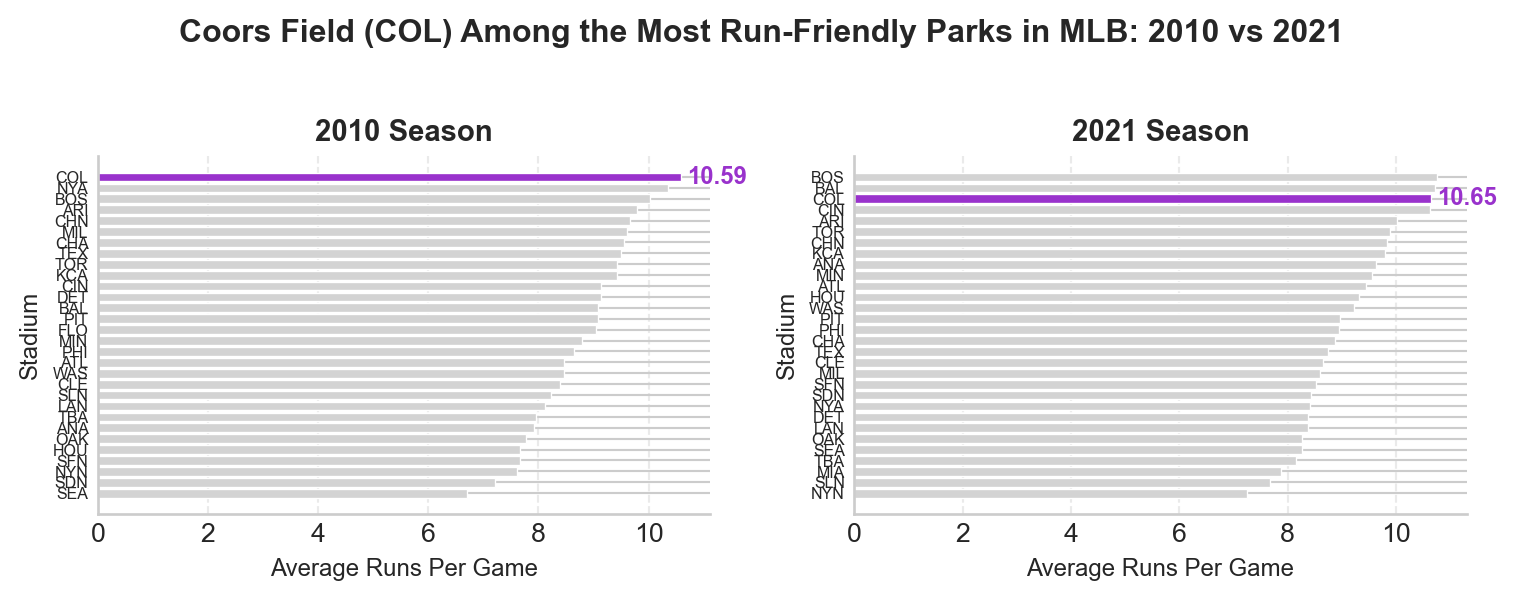
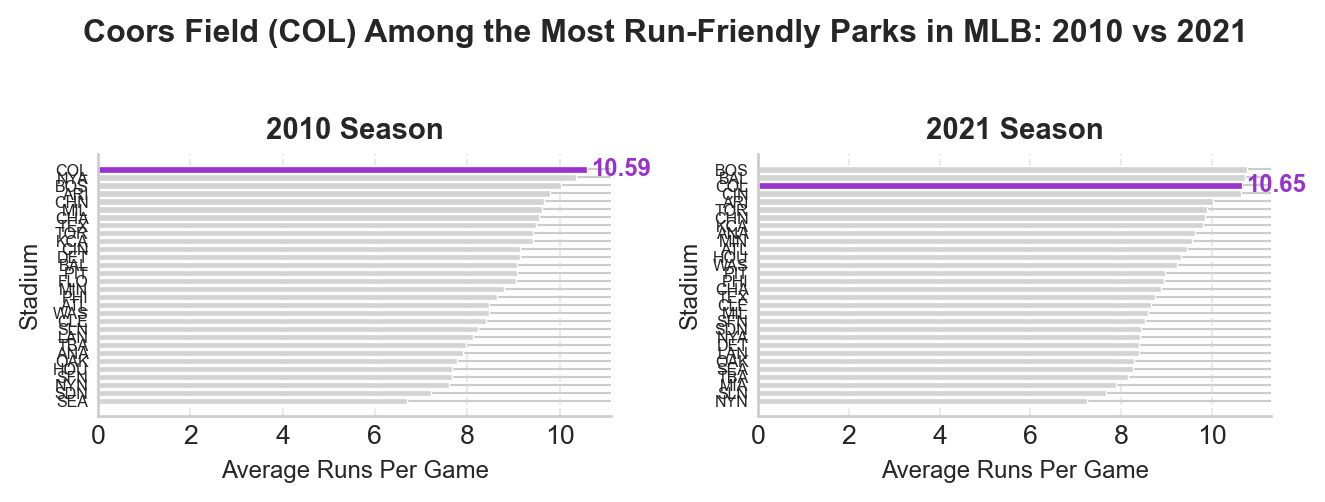
Advanced chart 7x2.5, stronger CSS max-height 50vh so no scroll on live site
Made-with: Cursor

Changed region(s): [[0.4951, 0.1793, 0.9902, 0.9861], [0.0, 0.1793, 0.4951, 0.9861], [0.0619, 0.0299, 0.9592, 0.0896]]

diff --git a/index.html b/index.html
@@ -74,12 +74,21 @@ pre > code.sourceCode > span > a:first-child::before { text-decoration: underlin
 /* Scale figures to viewport so charts fit without scrolling */
 .quarto-figure figure img,
 .quarto-plot img,
-figure img {
-  max-width: 100%;
-  max-height: 65vh;
-  height: auto;
-  width: auto;
+figure img,
+.figure-img,
+.figure img {
+  max-width: 100% !important;
+  max-height: 55vh !important;
+  height: auto !important;
+  width: auto !important;
   object-fit: contain;
+}
+/* Force Advanced 2010 vs 2021 chart to fit in one viewport */
+#advanced-oo-techniques,
+img#advanced-oo-techniques {
+  max-height: 50vh !important;
+  width: auto !important;
+  height: auto !important;
 }
 </style>
 
@@ -538,11 +547,11 @@ Colorado is 20.8% above league average</code></pre>
 <h2 class="anchored" data-anchor-id="advanced-object-oriented-techniques">Advanced Object-Oriented Techniques</h2>
 <p><strong>Mental Model:</strong> Use object-oriented matplotlib to create complex, reusable visualizations.</p>
 <p>Let’s create a comprehensive comparison between 2010 and 2021:</p>
-<div id="cell-advanced-oo-techniques" class="cell" data-fig-height="3" data-fig-width="8" data-execution_count="5">
+<div id="cell-advanced-oo-techniques" class="cell" data-fig-height="2.5" data-fig-width="7" data-execution_count="5">
 <div class="cell-output cell-output-display">
 <div>
 <figure class="figure">
-<p><img src="index_files/figure-html/advanced-oo-techniques-output-1.png" id="advanced-oo-techniques" width="758" height="300" class="figure-img"></p>
+<p><img src="index_files/figure-html/advanced-oo-techniques-output-1.png" id="advanced-oo-techniques" width="663" height="251" class="figure-img"></p>
 </figure>
 </div>
 </div>

diff --git a/style.html b/style.html
@@ -2,11 +2,20 @@
 /* Scale figures to viewport so charts fit without scrolling */
 .quarto-figure figure img,
 .quarto-plot img,
-figure img {
-  max-width: 100%;
-  max-height: 65vh;
-  height: auto;
-  width: auto;
+figure img,
+.figure-img,
+.figure img {
+  max-width: 100% !important;
+  max-height: 55vh !important;
+  height: auto !important;
+  width: auto !important;
   object-fit: contain;
+}
+/* Force Advanced 2010 vs 2021 chart to fit in one viewport */
+#advanced-oo-techniques,
+img#advanced-oo-techniques {
+  max-height: 50vh !important;
+  width: auto !important;
+  height: auto !important;
 }
 </style>
